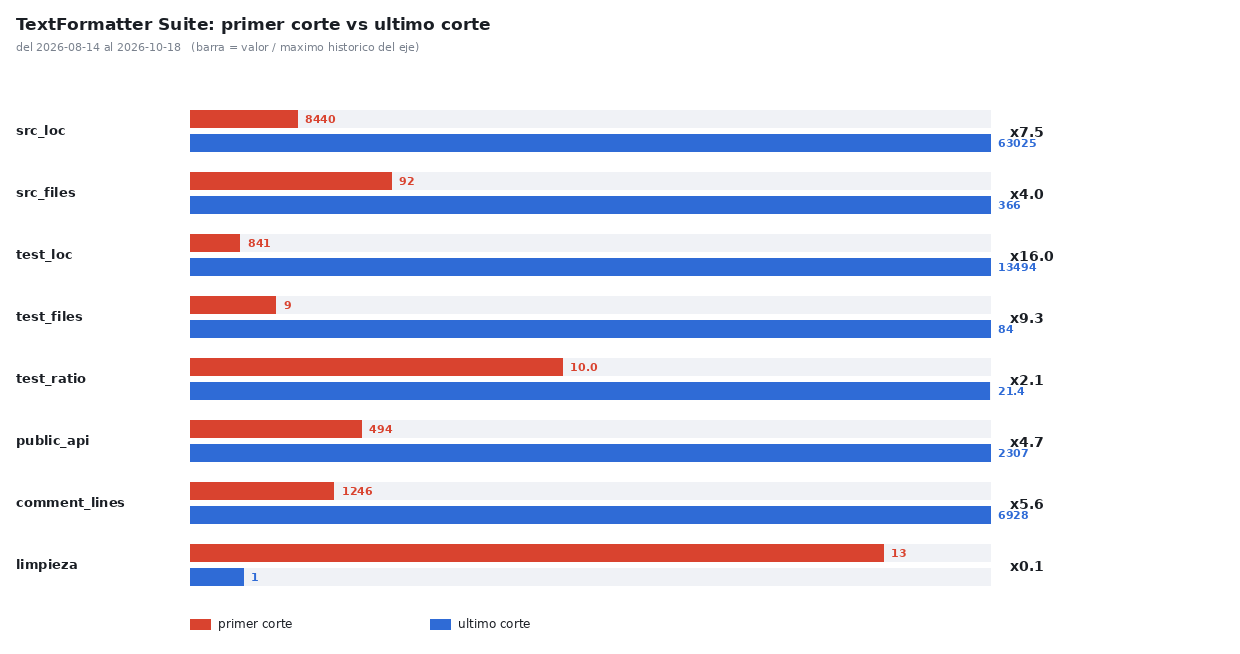
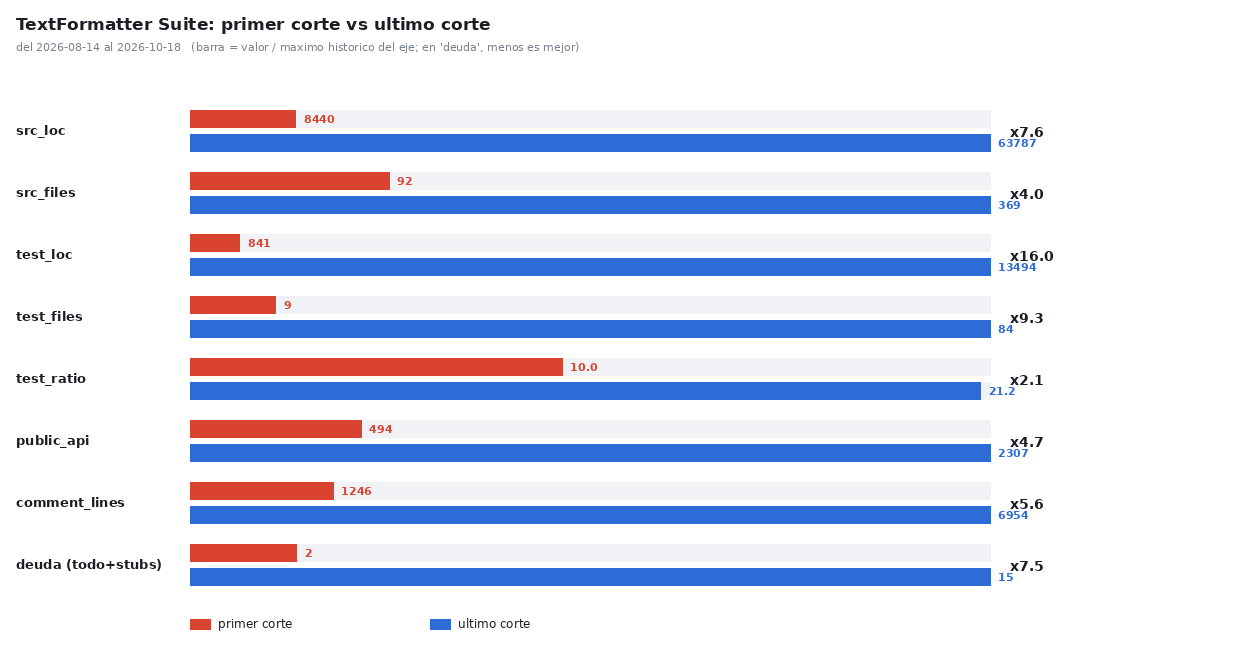
fix(metrics): crecimiento muestra la deuda real, no "max - deuda"
La fila salia como "limpieza = max(deuda) - deuda", de modo que cualquier corte
que fuese el mas sucio de la historia daba 0 por construccion y su factor x0.0
no significaba nada. Ahora se muestra la magnitud real (todo+stubs): 2 -> 15,
factor x7.5, con el aviso de que ahi menos es mejor.

diff --git a/tools/project-metrics/render_extra.py b/tools/project-metrics/render_extra.py
@@ -111,7 +111,9 @@ def bars_first_last(dates, g, path, title):
         data.append((m, a[0], a[-1], max(a) or 1))
     dirty = [t + s for t, s in zip(g["todo"], g["stubs"])]
     md = max(dirty) or 1
-    data.append(("limpieza", md - dirty[0], md - dirty[-1], md))
+    # Se muestra la deuda tal cual (no "max - deuda", que daria 0 en cualquier
+    # corte que sea el mas sucio y un factor sin sentido). Menos es mejor.
+    data.append(("deuda (todo+stubs)", dirty[0], dirty[-1], md))
 
     row_h, th, bh, lw = 62, 104, 54, 190
     W = 1240
@@ -119,8 +121,8 @@ def bars_first_last(dates, g, path, title):
     img = Image.new("RGB", (W, H), C.BG)
     d = ImageDraw.Draw(img, "RGBA")
     d.text((16, 14), title, font=C.font(17, True), fill=C.FG)
-    d.text((16, 40), f"del {dates[0]} al {dates[-1]}   (barra = valor / maximo historico del eje)",
-           font=C.font(11), fill=C.MUTED)
+    d.text((16, 40), f"del {dates[0]} al {dates[-1]}   (barra = valor / maximo historico del eje; "
+                     "en 'deuda', menos es mejor)", font=C.font(11), fill=C.MUTED)
     track = W - lw - 250
     for i, (m, first, last, mx) in enumerate(data):
         y = th + i * row_h
